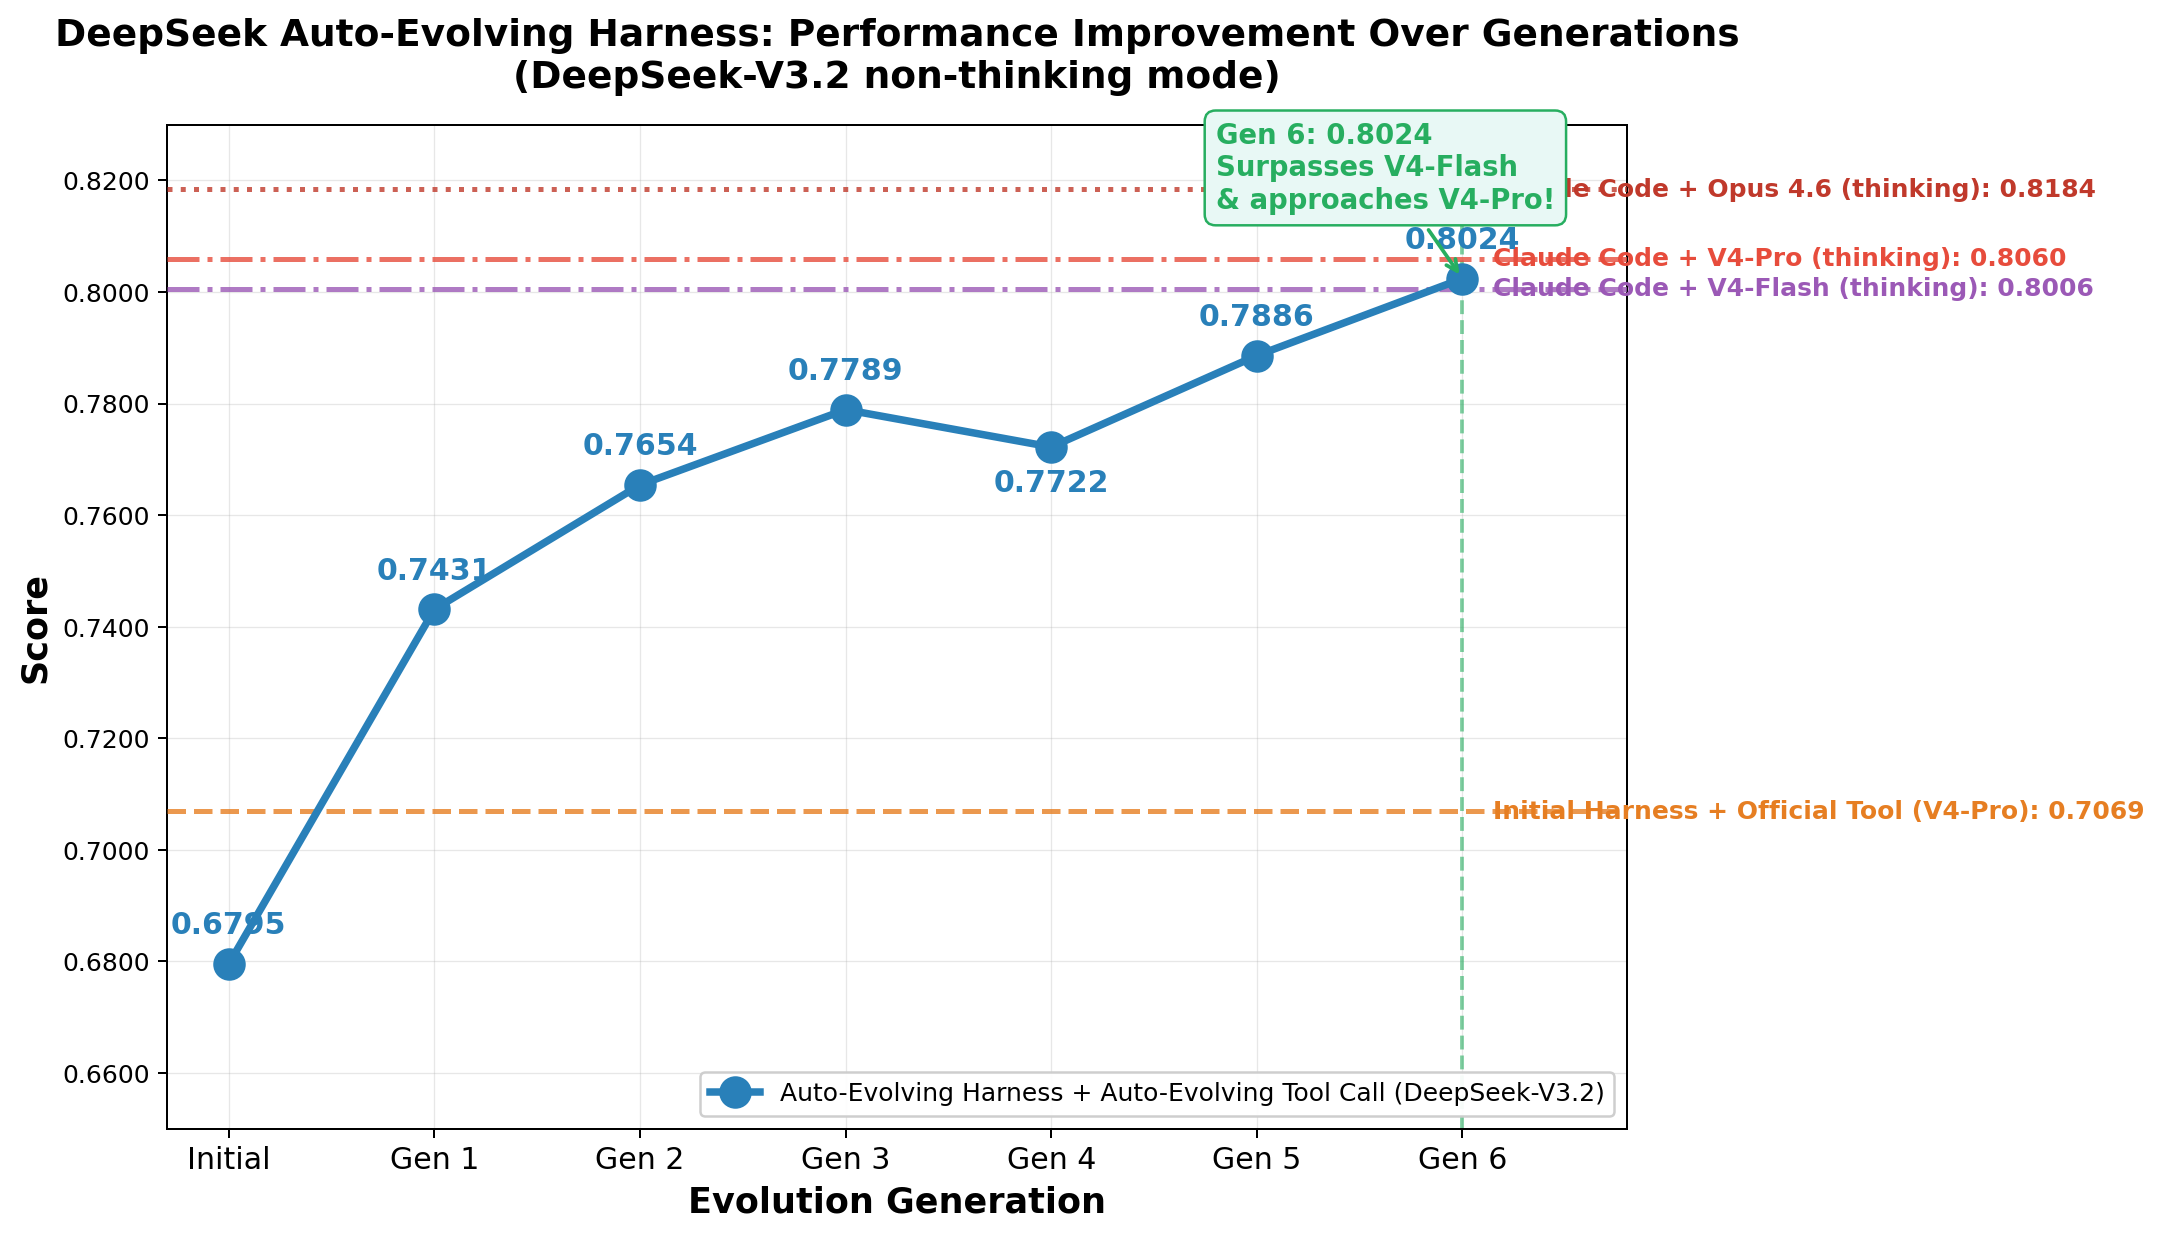
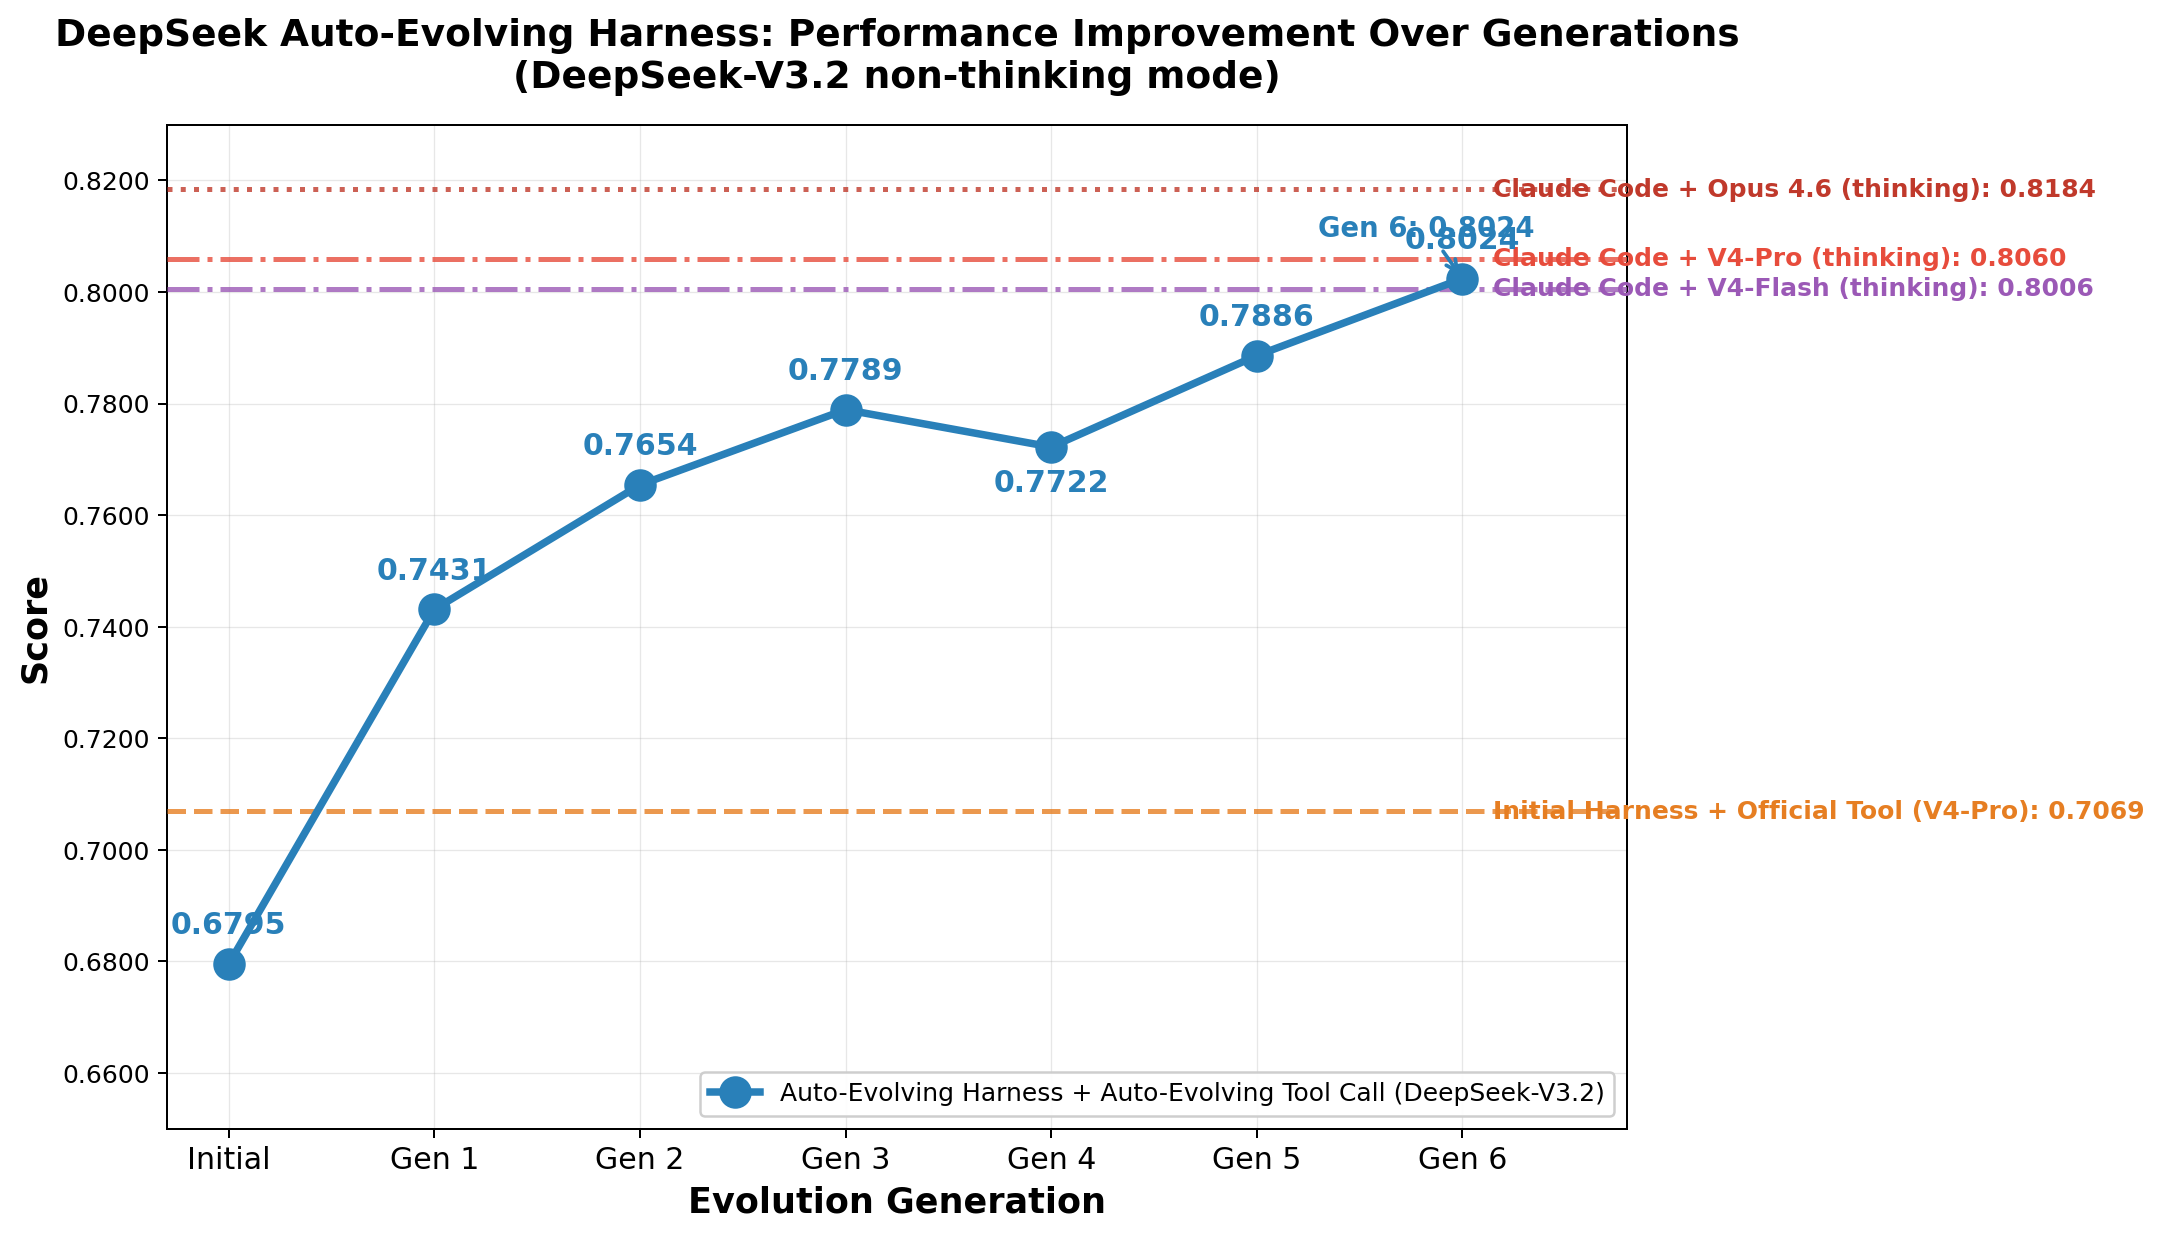
docs: remove green highlight box from evolution chart

Changed region(s): [[0.5578, 0.0922, 0.7438, 0.215]]

diff --git a/draw_chart.py b/draw_chart.py
@@ -36,13 +36,11 @@ for label, score, color, style in benchmarks:
     ax.text(6.15, score, f'{label}: {score:.4f}', va='center', ha='left',
             fontsize=10, color=color, fontweight='bold', zorder=4)
 
-# Highlight Gen 6 achievement
-ax.axvline(x=6, color='#27AE60', linestyle='--', linewidth=1.5, alpha=0.6, zorder=2)
-ax.annotate('Gen 6: 0.8024\nSurpasses V4-Flash\n& approaches V4-Pro!',
-            xy=(6, 0.8024), xytext=(4.8, 0.815),
-            fontsize=11, fontweight='bold', color='#27AE60',
-            arrowprops=dict(arrowstyle='->', color='#27AE60', lw=1.5),
-            bbox=dict(boxstyle='round,pad=0.4', facecolor='#E8F8F5', edgecolor='#27AE60'),
+# Highlight Gen 6 achievement with a simple annotation
+ax.annotate('Gen 6: 0.8024',
+            xy=(6, 0.8024), xytext=(5.3, 0.81),
+            fontsize=11, fontweight='bold', color='#2980B9',
+            arrowprops=dict(arrowstyle='->', color='#2980B9', lw=1.5),
             zorder=7)
 
 # Styling
